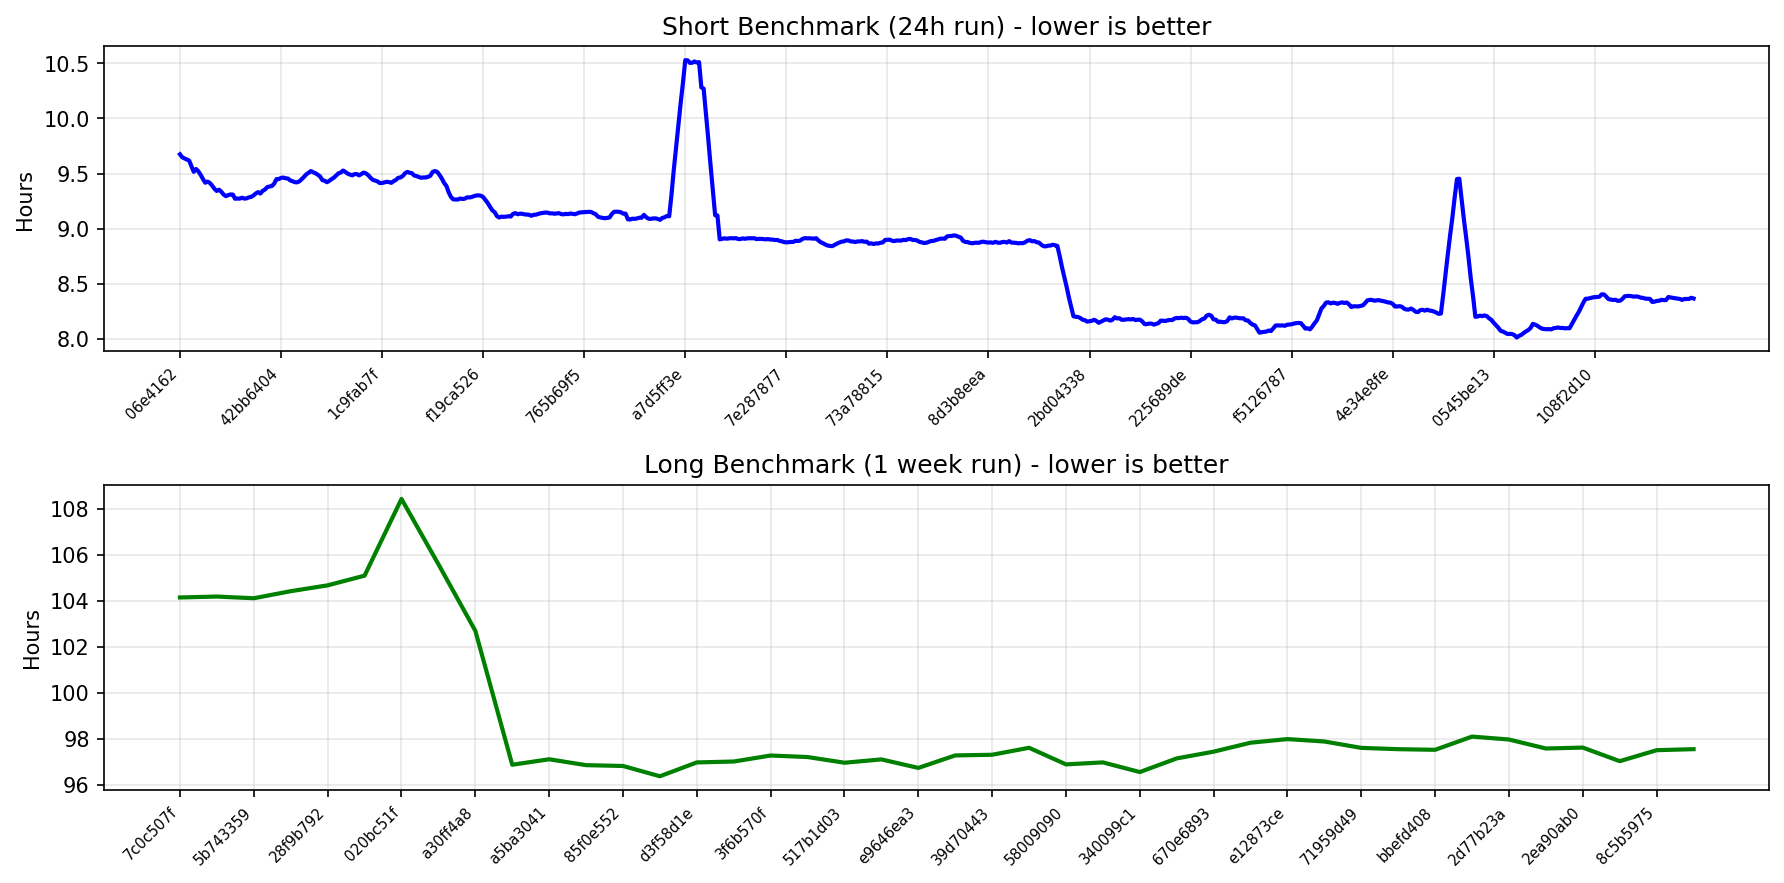
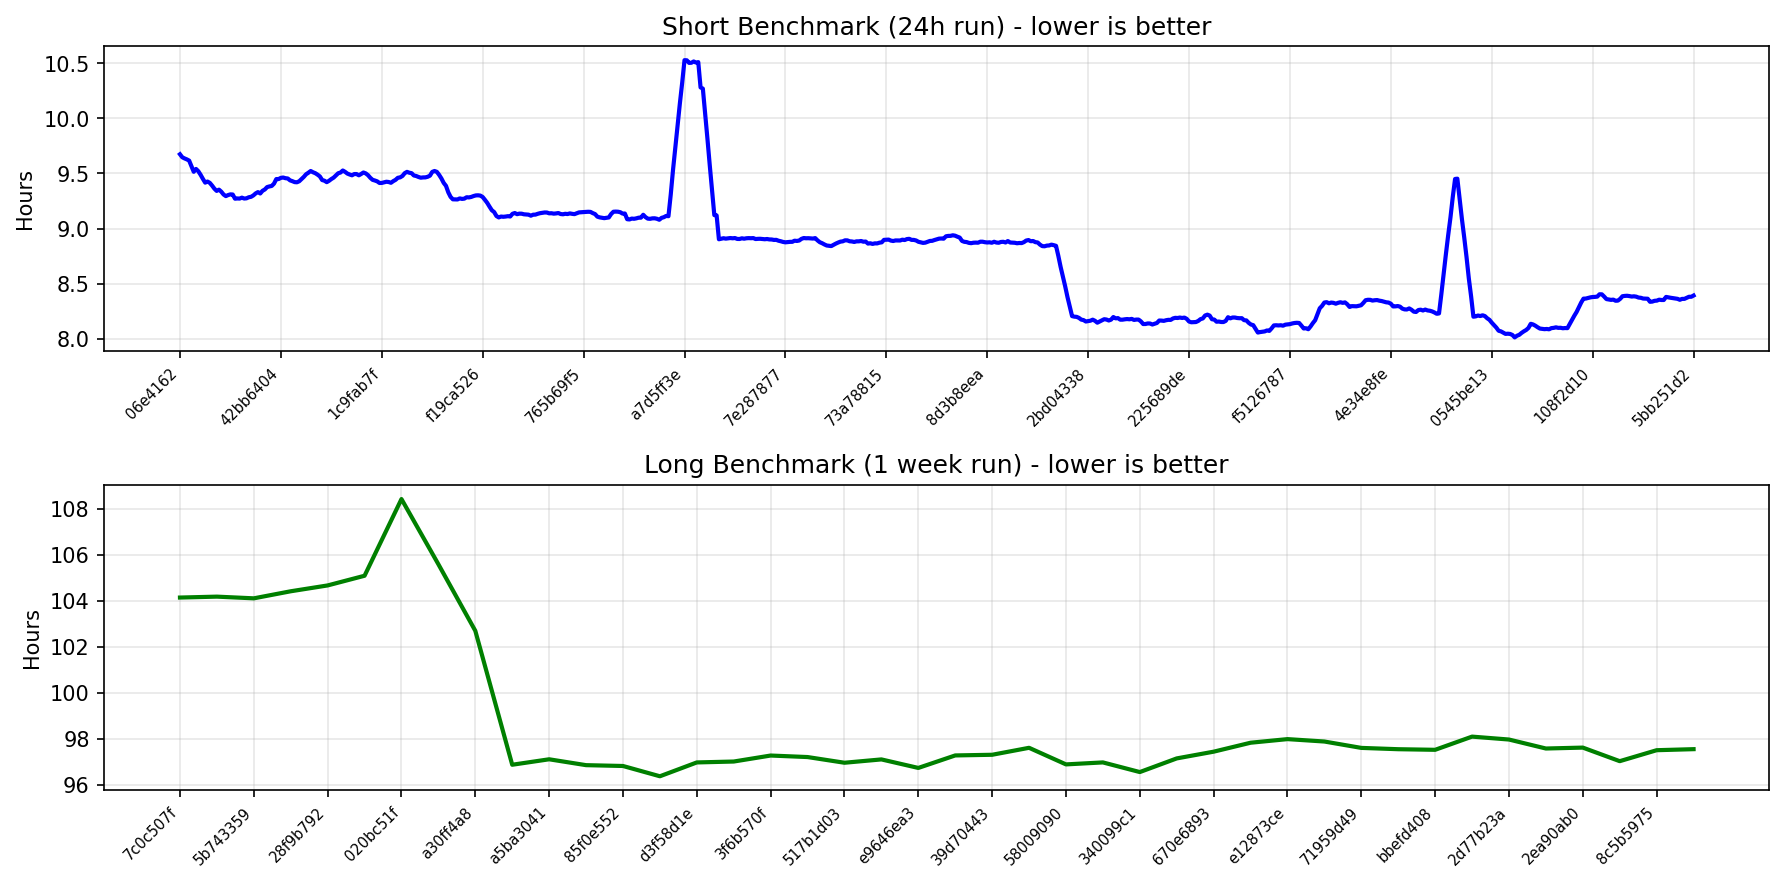
chore: update short benchmark Readme

diff --git a/README.md b/README.md
@@ -12,11 +12,11 @@ This repository contains various eth1 import benchmark metrics.
 
 | Generated At | Baseline SHA | Contender SHA | Baseline Time | Contender Time | Time Delta |
 |--------------|--------------|---------------|---------------|----------------|------------|
+| 2026-05-16 22:03:43 | [d807323d](https://github.com/status-im/nimbus-eth1/commit/d807323d) | [5bb251d2](https://github.com/status-im/nimbus-eth1/commit/5bb251d2) | 8h21m38s | 8h25m27s | 3m48s, 0.76% |
 | 2026-05-16 13:26:59 | [a98e14c6](https://github.com/status-im/nimbus-eth1/commit/a98e14c6) | [d807323d](https://github.com/status-im/nimbus-eth1/commit/d807323d) | 8h25m44s | 8h21m38s | -4m5s, -0.81% |
 | 2026-05-16 04:46:04 | [a38a895f](https://github.com/status-im/nimbus-eth1/commit/a38a895f) | [a98e14c6](https://github.com/status-im/nimbus-eth1/commit/a98e14c6) | 8h19m1s | 8h25m44s | 6m42s, 1.35% |
 | 2026-05-15 20:12:02 | [0dfead33](https://github.com/status-im/nimbus-eth1/commit/0dfead33) | [a38a895f](https://github.com/status-im/nimbus-eth1/commit/a38a895f) | 8h21m1s | 8h19m1s | -2m0s, -0.40% |
 | 2026-05-15 11:35:51 | [2a30983d](https://github.com/status-im/nimbus-eth1/commit/2a30983d) | [0dfead33](https://github.com/status-im/nimbus-eth1/commit/0dfead33) | 8h21m37s | 8h21m1s | -35s, -0.12% |
-| 2026-05-15 02:57:16 | [9cf34ff5](https://github.com/status-im/nimbus-eth1/commit/9cf34ff5) | [2a30983d](https://github.com/status-im/nimbus-eth1/commit/2a30983d) | 8h21m31s | 8h21m37s | 5s, 0.02% |
 
 ## Latest 5 Long Benchmarks (1 Week Run)
 
